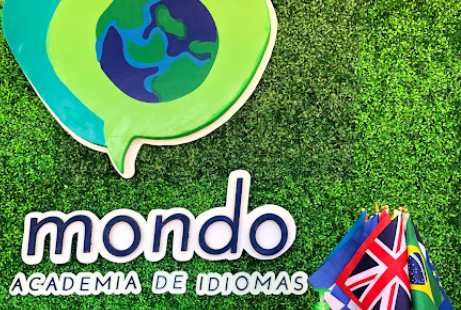
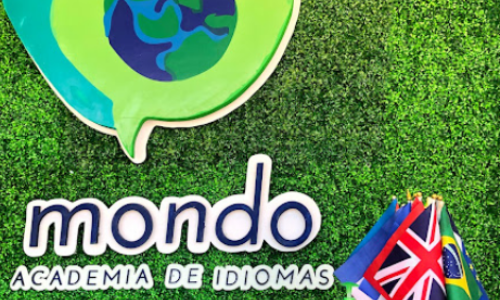
otras mejores y ubi

diff --git a/index.html b/index.html
@@ -37,66 +37,76 @@
     </div>
   </nav>
 
-  <div id="carouselExample" class="carousel slide">
-    <div class="carousel-inner">
-      <div class="carousel-item active">
-        <img width="200" height="500" src="/img/img1.png" class="d-block w-100" alt="...">
-        <div class="texto-superpuesto">Mondo Academia de Idiomas<br>Ubicada en la Av. Las Americas 1005<br> en
-          Aguascalientes</div>
+  <!--Carousel y about us misma fila-->
+  <div>
+    <div class="row">
+      <div class="col-lg-6">
+        <!-- Carousel -->
+        <div id="carouselExample" class="carousel slide">
+          <div class="carousel-inner">
+            <div class="carousel-item active">
+              <img width="300" height="500" src="/img/img1.png" class="d-block w-100" alt="...">
+              <div class="texto-superpuesto">Mondo Academia de Idiomas Ubicada en la Av. Las Americas 1005 en
+                Aguascalientes</div>
+            </div>
+            <div class="carousel-item">
+              <img width="200" height="500" src="/img/img2.png" class="d-block w-100" alt="...">
+              <div class="texto-superpuesto">Mondo Academia de Idiomas Ubicada en la Av. Las Americas 1005 en
+                Aguascalientes</div>
+            </div>
+            <div class="carousel-item">
+              <img width="200" height="500" src="/img/img3.png" class="d-block w-100" alt="...">
+              <div class="texto-superpuesto">Mondo Academia de Idiomas Ubicada en la Av. Las Americas 1005 en
+                Aguascalientes</div>
+            </div>
+            <div class="carousel-item">
+              <img width="200" height="500" src="/img/img5.png" class="d-block w-100" alt="...">
+              <div class="texto-superpuesto">Mondo Academia de Idiomas Ubicada en la Av. Las Americas 1005 en
+                Aguascalientes</div>
+            </div>
+            <div class="carousel-item">
+              <img width="200" height="500" src="/img/img4.png" class="d-block w-100" alt="...">
+              <div class="texto-superpuesto">Mondo Academia de Idiomas Ubicada en la Av. Las Americas 1005 en
+                Aguascalientes</div>
+            </div>
+          </div>
+          <button class="carousel-control-prev" type="button" data-bs-target="#carouselExample" data-bs-slide="prev">
+            <span class="carousel-control-prev-icon" aria-hidden="true"></span>
+            <span class="visually-hidden">Previous</span>
+          </button>
+          <button class="carousel-control-next" type="button" data-bs-target="#carouselExample" data-bs-slide="next">
+            <span class="carousel-control-next-icon" aria-hidden="true"></span>
+            <span class="visually-hidden">Next</span>
+          </button>
+        </div>
       </div>
-      <div class="carousel-item">
-        <img width="200" height="500" src="/img/img2.png" class="d-block w-100" alt="...">
-        <div class="texto-superpuesto">Mondo Academia de Idiomas<br>Ubicada en la Av. Las Americas 1005<br> en
-          Aguascalientes</div>
-      </div>
-      <div class="carousel-item">
-        <img width="200" height="500" src="/img/img3.png" class="d-block w-100" alt="...">
-        <div class="texto-superpuesto">Mondo Academia de Idiomas<br>Ubicada en la Av. Las Americas 1005<br> en
-          Aguascalientes</div>
-      </div>
-      <div class="carousel-item">
-        <img width="200" height="500" src="/img/img5.png" class="d-block w-100" alt="...">
-        <div class="texto-superpuesto">Mondo Academia de Idiomas<br>Ubicada en la Av. Las Americas 1005<br> en
-          Aguascalientes</div>
-      </div>
-      <div class="carousel-item">
-        <img width="200" height="500" src="/img/img4.png" class="d-block w-100" alt="...">
-        <div class="texto-superpuesto">Mondo Academia de Idiomas<br>Ubicada en la Av. Las Americas 1005<br> en
-          Aguascalientes</div>
+      <div class="col-lg-6">
+        <!--About us-->
+          <div class="text-widget">
+            <p class="h3"><img width="30" height="30"
+                src="https://img.icons8.com/external-others-amoghdesign/30/external-academia-soleicons-fill-vol-1-others-amoghdesign.png"
+                alt="external-academia-soleicons-fill-vol-1-others-amoghdesign" /> Acerca de Nosotros</p>
+            <p style="margin-top: 40px; text-align: justify;">Mondo Academia de Idiomas es una escuela de idiomas ubicada en la
+              Av. Las Americas 1005 en Aguascalientes. Con una amplia variedad de servicios,
+              esta academia se dedica a ofrecer clases de inglés, francés, alemán y japonés impartidas por instructores
+              altamente capacitados. Mondo Academia de Idiomas se
+              ha ganado una excelente reputación en la ciudad. Su compromiso con la calidad y la excelencia en la enseñanza de
+              idiomas es evidente en cada una de sus clases. Además de sus clases presenciales,
+              Mondo Academia de Idiomas también ofrece clases en línea para aquellos que prefieren aprender desde la comodidad
+              de su hogar. Con esta opción, los estudiantes pueden acceder a las clases desde cualquier lugar
+              y en cualquier momento. Si estás buscando mejorar tus habilidades lingüísticas, Mondo Academia de Idiomas es
+              definitivamente la opción ideal para ti. Con instructores altamente capacitados y una amplia variedad de
+              servicios, esta academia es la mejor opción para aquellos que buscan aprender un nuevo idioma o mejorar sus
+              habilidades existentes.</p>
+          </div>
       </div>
     </div>
-    <button class="carousel-control-prev" type="button" data-bs-target="#carouselExample" data-bs-slide="prev">
-      <span class="carousel-control-prev-icon" aria-hidden="true"></span>
-      <span class="visually-hidden">Previous</span>
-    </button>
-    <button class="carousel-control-next" type="button" data-bs-target="#carouselExample" data-bs-slide="next">
-      <span class="carousel-control-next-icon" aria-hidden="true"></span>
-      <span class="visually-hidden">Next</span>
-    </button>
-  </div>
-
-  <!--About us-->
-  <div class="text-widget">
-    <p class="h3"><img width="30" height="30" src="https://img.icons8.com/external-others-amoghdesign/30/external-academia-soleicons-fill-vol-1-others-amoghdesign.png" alt="external-academia-soleicons-fill-vol-1-others-amoghdesign"/> Acerca de Nosotros</p>
-    <p style="margin-top: 40px; text-align: justify;">Mondo Academia de Idiomas es una escuela de idiomas ubicada en la
-      Av. Las Americas 1005 en Aguascalientes. Con una amplia variedad de servicios,
-      esta academia se dedica a ofrecer clases de inglés, francés, alemán y japonés impartidas por instructores
-      altamente capacitados. Mondo Academia de Idiomas se
-      ha ganado una excelente reputación en la ciudad. Su compromiso con la calidad y la excelencia en la enseñanza de
-      idiomas es evidente en cada una de sus clases. Además de sus clases presenciales,
-      Mondo Academia de Idiomas también ofrece clases en línea para aquellos que prefieren aprender desde la comodidad
-      de su hogar. Con esta opción, los estudiantes pueden acceder a las clases desde cualquier lugar
-      y en cualquier momento. Si estás buscando mejorar tus habilidades lingüísticas, Mondo Academia de Idiomas es
-      definitivamente la opción ideal para ti. Con instructores altamente capacitados y una amplia variedad de
-      servicios, esta academia es la mejor opción para aquellos que buscan aprender un nuevo idioma o mejorar sus
-      habilidades existentes.</p>
   </div>
 
   <div class="text-widget">
     <p class="h3"><img width="30" height="30" src="https://img.icons8.com/color/30/language.png"
         alt="language" />Idiomas</p>
   </div>
-
 
   <!-- Acordion -->
   <div class="accordion accordion-flush" id="accordionFlushExample">
@@ -206,11 +216,29 @@
     </div>
   </div>
 
+  <div class="text-widget">
+    <p class="h3"><img width="30" height="30" src="https://img.icons8.com/color/30/clock--v4.png" alt="clock--v4"/>Horarios</p>
+  </div>
+  <br>
 
-
+  <!--Ubicacion y contacto-->
+  <div class="text-widget">
+    <p class="h3"><img width="30" height="30" src="https://img.icons8.com/fluency/30/maps.png" alt="maps"/>Ubicación</p>
+  </div>
+  <br>
+  <div class>
+    <div class="row">
+      <div class="col-lg-6 d-flex justify-content-center">
+          <iframe class="ubicacion" src="https://www.google.com/maps/embed?pb=!1m18!1m12!1m3!1d3702.725093471595!2d-102.30543172411136!3d21.86813705841974!2m3!1f0!2f0!3f0!3m2!1i1024!2i768!4f13.1!3m3!1m2!1s0x8429efe07306cd1f%3A0xc3bc30582ca4c110!2sMondo%20Academia%20de%20Idiomas!5e0!3m2!1ses!2smx!4v1705529253855!5m2!1ses!2smx" width="75%" height="450" style="border:0;" allowfullscreen="" loading="lazy" referrerpolicy="no-referrer-when-downgrade"></iframe>
+      </div>
+      <div class="col-lg-6 d-flex justify-content-center" style="margin-top: 1em;">
+        <iframe class="ubicacion" width="75%" height="450" src="https://www.youtube.com/embed/tLgAU3rJRjg?si=PrrgbFsJ4eNi8G7L" title="YouTube video player" frameborder="0" allow="accelerometer; autoplay; clipboard-write; encrypted-media; gyroscope; picture-in-picture; web-share" allowfullscreen></iframe>
+      </div>
+    </div>
+  </div>
 
   <!-- Footer -->
-  <div class="container">
+  <div class="container" id="map">
     <footer class="d-flex flex-wrap justify-content-between align-items-center py-3 my-4 border-top">
       <div class="col-md-4 d-flex align-items-center">
         <a href="" class="mb-3 me-2 mb-md-0 text-muted text-decoration-none lh-1">

diff --git a/styles.css b/styles.css
@@ -1,3 +1,4 @@
+/* Estilos para pantallas pequeñas o movil*/
 .navbar{
     background-color: #d8eeff;
 }
@@ -6,18 +7,18 @@
 }
 .texto-superpuesto {
     position: absolute;
-    top: 50%;
-    left: 30%; 
+    top: 85%;
+    left: 50%; 
     transform: translate(-50%, -50%);
     color: white; 
     text-align: left;
     font-size: 24px; 
-    font-weight: bold; 
-    background: rgb(0, 128, 128, 0.7); 
+    background: rgba(72, 152, 206, 0.7); 
     padding: 15px; 
-    border-radius: 10px;
+    border-radius: .1em;
     white-space: normal; 
     line-height: 1.5;
+    width: 100%;
 }
 .text-widget {
     font-size: 18px; 
@@ -32,3 +33,18 @@
     margin-right: 100px;    
 }
 
+
+/* Estilos para pantallas grandes */
+@media (min-width: 1000px) {
+    .carousel{
+        margin-top: 2em;
+        margin-left: 2em;
+    }
+    .carousel img{
+        border-radius: .5em;
+    }
+    .ubicacion{
+        width: 85%;
+    }
+    
+}
